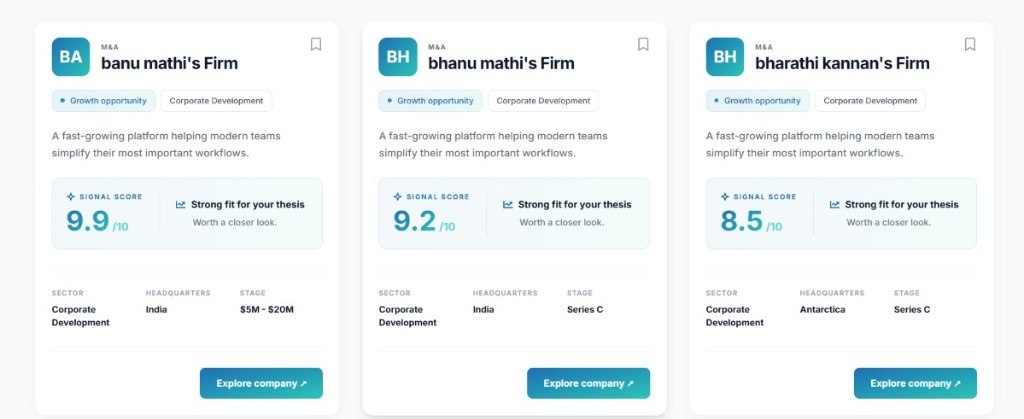
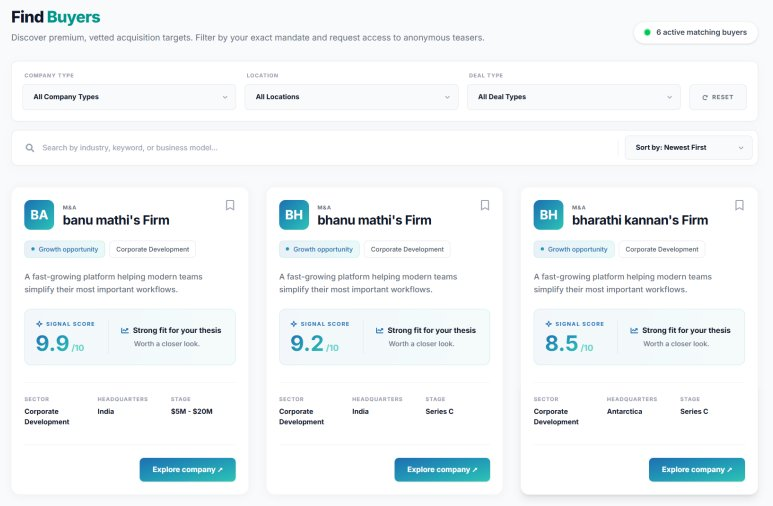
feature module

diff --git a/app/dms/page.js b/app/dms/page.js
@@ -6,7 +6,7 @@ import "aos/dist/aos.css";
 import Link from "next/link";
 import DocumentWorkspaceHero from "@/components/landing/DocumentWorkspaceHero";
 import ForestCard from "@/components/ForestCard";
-import { FaBars, FaTimes, FaUserTie, FaBuilding, FaHandshake, FaChartLine, FaShieldAlt, FaFileContract, FaKey, FaSearch, FaChevronDown, FaServer, FaBriefcase } from "react-icons/fa";
+import { FaBars, FaTimes, FaUserTie, FaBuilding, FaHandshake, FaChartLine, FaShieldAlt, FaFileContract, FaKey, FaSearch, FaChevronDown, FaPlus, FaServer, FaBriefcase } from "react-icons/fa";
 
 const DMS_FEATURE_TABS = [
   {
@@ -163,6 +163,7 @@ const DMS_FEATURE_TABS = [
 
 export default function DMSLanding() {
   const [activeDmsFeature, setActiveDmsFeature] = useState("marketplace");
+  const [activeDmsStep, setActiveDmsStep] = useState(0);
   const [isMobileMenuOpen, setIsMobileMenuOpen] = useState(false);
   const [mobileExpanded, setMobileExpanded] = useState({
     products: false,
@@ -677,14 +678,14 @@ export default function DMSLanding() {
       <ForestCard />
 
       {/* Structured Deal Transformation Section (Below DMS Modules) */}
-      <section className="pt-4 pb-16 md:pt-8 md:pb-20 px-4 md:px-6 bg-white relative overflow-hidden">
+      <section className="pt-0 -mt-4 md:-mt-8 pb-10 md:pb-14 px-4 md:px-6 bg-white relative overflow-hidden">
         <div className="w-full max-w-[1440px] mx-auto">
-          <div className="flex flex-col xl:flex-row xl:items-center xl:justify-between gap-5 mb-10 md:mb-12" data-aos="fade-up">
-            <h2 className="text-3xl md:text-5xl font-extrabold text-[#0f172a] tracking-tight leading-tight flex-shrink-0">
+          {/* Top Row: DMS Feature Title + Horizontal Module Navbar */}
+          <div className="flex flex-col xl:flex-row xl:items-center xl:justify-between gap-4 mb-6 md:mb-8" data-aos="fade-up">
+            <h2 className="text-3xl md:text-4xl font-extrabold text-[#0f172a] tracking-tight leading-tight flex-shrink-0">
               DMS Feature
             </h2>
 
-            {/* Feature Navbar */}
             <nav
               aria-label="DMS Feature modules"
               className="flex items-center gap-1.5 bg-slate-100/90 p-1.5 rounded-2xl border border-slate-200/80 overflow-x-auto max-w-full"
@@ -695,11 +696,15 @@ export default function DMSLanding() {
                   <button
                     key={tab.id}
                     type="button"
-                    onClick={() => setActiveDmsFeature(tab.id)}
-                    className={`px-3.5 sm:px-4 py-2 rounded-xl text-xs sm:text-sm font-semibold whitespace-nowrap transition-all duration-200 cursor-pointer ${isActive
-                      ? "bg-gradient-to-r from-[var(--brand)] to-[#0ea5e9] text-white shadow-sm"
-                      : "text-[#4b5568] hover:text-[#0f172a] hover:bg-white/80"
-                      }`}
+                    onClick={() => {
+                      setActiveDmsFeature(tab.id);
+                      setActiveDmsStep(0);
+                    }}
+                    className={`px-3.5 sm:px-4 py-2 rounded-xl text-xs sm:text-sm font-semibold whitespace-nowrap transition-all duration-200 cursor-pointer ${
+                      isActive
+                        ? "bg-gradient-to-r from-[var(--brand)] to-[#0ea5e9] text-white shadow-sm"
+                        : "text-[#4b5568] hover:text-[#0f172a] hover:bg-white/80"
+                    }`}
                   >
                     {tab.label}
                   </button>
@@ -708,83 +713,70 @@ export default function DMSLanding() {
             </nav>
           </div>
 
-          <div className="relative" data-aos="fade-up">
-            {(DMS_FEATURE_TABS.find((t) => t.id === activeDmsFeature) || DMS_FEATURE_TABS[0]).steps.map((step, idx, arr) => {
-              const pillGradients = [
-                "from-[var(--brand)] to-[#0ea5e9]",
-                "from-[#0ea5e9] to-[#06d6c8]",
-                "from-[#06d6c8] to-[var(--brand)]",
-              ];
-              const stepImages = [
-                { src: "/images/dms-step-1.jpg", alt: "Confidential Deal Setup and Analytics" },
-                { src: "/images/dms-step-2.jpg", alt: "Digital NDA Signature and Virtual Data Room" },
-                { src: "/images/dms-step-3.jpg", alt: "Bidding Comparison and Digital SPA Closing" },
-              ];
-              const isLast = idx === arr.length - 1;
-              const pillGradient = pillGradients[idx % pillGradients.length];
-              const stepImage = step.image
-                ? { src: step.image, alt: step.imageAlt || step.title }
-                : stepImages[idx % stepImages.length];
+          {(() => {
+            const currentTab = DMS_FEATURE_TABS.find((t) => t.id === activeDmsFeature) || DMS_FEATURE_TABS[0];
+            const safeStepIdx = activeDmsStep < currentTab.steps.length ? activeDmsStep : 0;
+            const activeStep = currentTab.steps[safeStepIdx];
+            const fallbackImages = [
+              { src: "/images/dms-step-1.jpg", alt: "Confidential Deal Setup and Analytics" },
+              { src: "/images/dms-step-2.jpg", alt: "Digital NDA Signature and Virtual Data Room" },
+              { src: "/images/dms-step-3.jpg", alt: "Bidding Comparison and Digital SPA Closing" },
+            ];
+            const activeImage = activeStep.image
+              ? { src: activeStep.image, alt: activeStep.imageAlt || activeStep.title }
+              : fallbackImages[safeStepIdx % fallbackImages.length];
 
-              return (
-                <div
-                  key={step.title}
-                  className={`grid grid-cols-1 lg:grid-cols-12 gap-6 lg:gap-10 items-start relative ${isLast ? "" : "pb-8 lg:pb-10"
-                    }`}
-                >
-                  {/* Vertical gradient connector line per row (Desktop & Mobile left) */}
-                  {!isLast && (
-                    <div className="hidden lg:block absolute left-[7px] top-3 bottom-0 w-0.5 bg-gradient-to-b from-[var(--brand)] via-[#0ea5e9] to-[#06d6c8]" />
-                  )}
-
-                  {/* Left Column: Dot + Feature Label + Title & Description */}
-                  <div className="lg:col-span-6 relative pl-8 sm:pl-10">
-                    {!isLast && (
-                      <div className="lg:hidden absolute left-[7px] top-3 bottom-0 w-0.5 bg-gradient-to-b from-[var(--brand)] via-[#0ea5e9] to-[#06d6c8]" />
-                    )}
-                    <span
-                      className={`absolute left-0 top-2 w-4 h-4 rounded-full bg-gradient-to-r ${pillGradient} ring-4 ring-white shadow-sm z-10`}
-                    />
-                    <span className={`inline-flex items-center px-3.5 py-1 rounded-full text-xs sm:text-sm font-bold bg-gradient-to-r ${pillGradient} text-white shadow-xs mb-2.5`}>
-                      Feature {idx + 1}
-                    </span>
-                    <h3 className="text-2xl sm:text-3xl font-bold text-[#0f172a] mb-2.5">
-                      {step.title}
-                    </h3>
-                    <p className="text-base sm:text-lg text-[#505b6f] leading-relaxed">
-                      {step.desc}
-                    </p>
-                  </div>
-
-                  {/* Right Column: Aligned Image starting flush with Feature label */}
-                  <div className="lg:col-span-6 pl-8 sm:pl-10 lg:pl-0">
-                    <div
-                      className={`w-full max-w-2xl lg:ml-auto rounded-2xl overflow-hidden shadow-[0_14px_36px_rgba(15,23,42,0.1)] border border-slate-200/80 ${
-                        step.image
-                          ? "bg-gradient-to-br from-slate-50 via-white to-slate-50/80 p-2 sm:p-3"
-                          : "bg-white"
-                      }`}
-                    >
-                      <img
-                        src={stepImage.src}
-                        alt={stepImage.alt}
-                        style={
-                          step.image
-                            ? { imageRendering: "-webkit-optimize-contrast" }
-                            : undefined
-                        }
-                        className={
-                          step.image
-                            ? "w-full h-auto max-h-[340px] object-contain mx-auto rounded-xl block contrast-[1.03] saturate-[1.03]"
-                            : "w-full h-64 sm:h-72 object-cover block"
-                        }
-                      />
-                    </div>
+            return (
+              <div className="grid grid-cols-1 lg:grid-cols-12 gap-6 lg:gap-8 items-stretch" data-aos="fade-up">
+                {/* Left Side: Vertical Feature List */}
+                <div className="lg:col-span-4 flex">
+                  <div
+                    role="tablist"
+                    aria-label={`${currentTab.label} features`}
+                    className="w-full flex flex-col justify-between gap-2 bg-slate-100/90 p-3 rounded-2xl border border-slate-200/80 shadow-xs lg:h-full"
+                  >
+                    {currentTab.steps.map((step, idx) => {
+                      const isStepActive = idx === safeStepIdx;
+                      return (
+                        <button
+                          key={step.title}
+                          type="button"
+                          role="tab"
+                          aria-selected={isStepActive}
+                          onClick={() => setActiveDmsStep(idx)}
+                          className={`w-full px-4 py-3.5 lg:flex-1 rounded-xl text-sm sm:text-base font-semibold transition-all duration-200 cursor-pointer flex items-center justify-between gap-3 text-left ${
+                            isStepActive
+                              ? "bg-gradient-to-r from-[var(--brand)] to-[#0ea5e9] text-white shadow-sm"
+                              : "bg-white/70 text-[#4b5568] hover:text-[#0f172a] hover:bg-white"
+                          }`}
+                        >
+                          <span className="leading-snug">{step.title}</span>
+                          <span
+                            className={`w-7 h-7 rounded-full border flex items-center justify-center flex-shrink-0 transition-colors duration-200 ${
+                              isStepActive
+                                ? "border-white/70 text-white"
+                                : "border-slate-300 text-slate-500"
+                            }`}
+                          >
+                            <FaPlus className="text-[11px]" />
+                          </span>
+                        </button>
+                      );
+                    })}
                   </div>
                 </div>
-              );
-            })}
-          </div>
+
+                {/* Right Side: Single Active Feature Image Showcase */}
+                <div className="lg:col-span-8 flex items-center justify-center">
+                  <img
+                    src={activeImage.src}
+                    alt={activeImage.alt}
+                    className="w-auto max-w-full h-auto max-h-[400px] rounded-2xl shadow-[0_12px_32px_rgba(15,23,42,0.1)] border border-slate-200/70 block contrast-[1.04] brightness-[1.01]"
+                  />
+                </div>
+              </div>
+            );
+          })()}
         </div>
       </section>
 

diff --git a/components/ForestCard.jsx b/components/ForestCard.jsx
@@ -18,7 +18,7 @@ export default function ForestCard() {
       singleLineTitle: true,
       fullTitle: "Market Place",
       subtitle: "Curated M&A Opportunities & Verified Buyer-Seller Discovery",
-      urlPath: "dms.pibi.tech/marketplace",
+      urlPath: "dms/marketplace",
       buttonText: "Explore Marketplace",
       renderScreen: () =>
         roleMode === "seller" ? (
@@ -375,7 +375,7 @@ export default function ForestCard() {
       titleLine2: "ROOM",
       fullTitle: "Deal Room",
       subtitle: "Ultra-Secure Virtual Data Room with Granular Access & Diligence",
-      urlPath: "dms.pibi.tech/deal-room",
+      urlPath: "dms/deal-room",
       buttonText: "Enter Deal Room",
       screenImage: "/images/screen-dealroom.png",
       renderScreen: () => {
@@ -505,7 +505,7 @@ export default function ForestCard() {
       titleLine2: "WORKFLOW",
       fullTitle: "Task & Workflow",
       subtitle: "Automated Milestone Tracking, Pipeline Stages & Approvals",
-      urlPath: "dms.pibi.tech/deal-workflow",
+      urlPath: "dms/deal-workflow",
       buttonText: "Open Task Pipeline",
       screenImage: "/images/screen-workflow.png",
       renderScreen: () => {
@@ -730,7 +730,7 @@ export default function ForestCard() {
       titleLine2: "LOGS",
       fullTitle: "Audit & Logs",
       subtitle: "Immutable Activity Tracking, Document Watermarking & Event Logs",
-      urlPath: "dms.pibi.tech/control-audits",
+      urlPath: "dms/control-audits",
       buttonText: "View Audit Trail",
       screenImage: "/images/screen-audit.png",
       renderScreen: () => {
@@ -949,7 +949,7 @@ export default function ForestCard() {
       titleLine2: "DEAL CLOSE",
       fullTitle: "Bidding & Deal Close",
       subtitle: "Competitive Multi-Round Bidding, SPA Execution & Escrow Closing",
-      urlPath: "dms.pibi.tech/deal-closing",
+      urlPath: "dms/deal-closing",
       buttonText: "Access Bidding Console",
       screenImage: "/images/screen-bidding.png",
       renderScreen: () =>
@@ -1532,13 +1532,7 @@ export default function ForestCard() {
               </div>
 
               {/* Monitor Bottom Bezel Chin */}
-              <div className="bg-gradient-to-r from-slate-900 via-slate-800 to-slate-900 py-1.5 px-4 flex items-center justify-between border-t border-slate-800 text-[8.5px] font-mono tracking-widest text-slate-400 select-none">
-                <span className="opacity-75">PIBI DEAL CONSOLE</span>
-                <span className="text-emerald-400 flex items-center gap-1.5 font-semibold">
-                  <span className="w-1.5 h-1.5 rounded-full bg-emerald-400 animate-pulse" />
-                  ONLINE
-                </span>
-              </div>
+              <div className="h-3 bg-gradient-to-r from-slate-900 via-slate-800 to-slate-900 border-t border-slate-800" />
             </div>
 
             {/* Aluminum Monitor Stand Base */}
